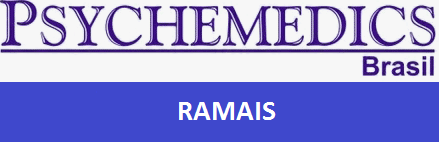
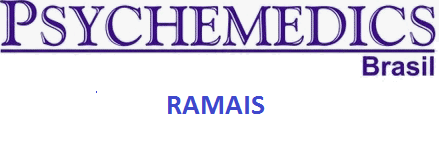
cores alteradas

diff --git a/TelasPrincipais/pesramfiltros.php b/TelasPrincipais/pesramfiltros.php
@@ -7,8 +7,8 @@
   body {
 	font-family: Georgia, "Times New Roman",
           Times, serif;
-    color: White;
-    background-color: #27408B
+    color: Black;
+    background-color: white
 	}
 .css_btn_class {
 	font-size:12px;
@@ -102,8 +102,8 @@ $ramal = $_POST["numramal"];
 $nome = $_POST["nomeusuariodigitado"];
 
 //Definindo as cores para intercalar na tabela.
-$cor1 = "#1E90FF";
-$cor2 = "#4682B4";
+$cor1 = "#BFEFFF";
+$cor2 = "#9AC0CD";
 $i = 2;
 
 //Conexão com o Banco
@@ -160,7 +160,7 @@ if($coddepto == "todos" or $coddepto == "" and $ramal == "" and $nome == ""){
    from usuario inner join ramal on 
    usuario.id_usuario = ramal.id_usuario
    inner join departamento on usuario.id_depto = departamento.id_depto
-   where departamento.desc_depto like '%".$coddepto."%' 
+   where departamento.desc_depto like '".$coddepto."%' 
    and
    Nome_usuario like '%".$nome."%'
    and
